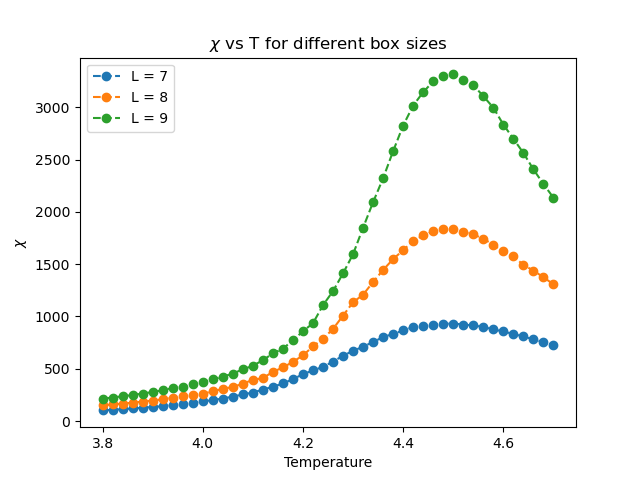
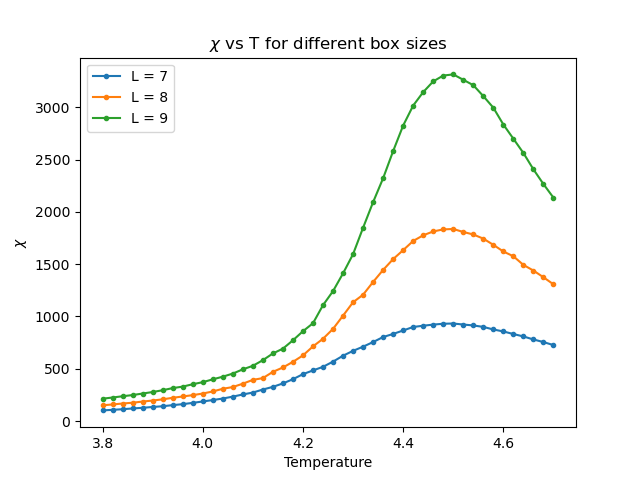
make figures neater

diff --git a/module_3/auxscripts/Q7.py b/module_3/auxscripts/Q7.py
@@ -52,38 +52,45 @@ print(cv9.max())
 
 print()
 print(Exp7_M[0])
-# plt.plot(T, chi7, '--o', label="L = 7")
-# plt.plot(T, chi8, '--o', label="L = 8")
-# plt.plot(T, chi9, '--o', label="L = 9")
-# plt.plot(T, cv7, '--o', label="L = 7")
-# plt.plot(T, cv8, '--o', label="L = 8")
-# plt.plot(T, cv9, '--o', label="L = 9")
-# plt.xlabel("Temperature")
-# plt.ylabel("$\chi$")
-# plt.ylabel("$C_v$")
-# plt.legend()
-# plt.title("$\chi$ vs T for different box sizes")
-# plt.title("$C_v$ vs T for different box sizes")
-# plt.savefig("figures/Q7_chi_T.png")
-# plt.clf()
 
-# plt.plot(T, Exp7_M,'--o', label="L = 7")
-# plt.plot(T, Exp8_M,'--o', label="L = 8")
-# plt.plot(T, Exp9_M,'--o', label="L = 9")
-# plt.plot(T, Exp7_modM,'--o', label="L = 7")
-# plt.plot(T, Exp8_modM,'--o', label="L = 8")
-# plt.plot(T, Exp9_modM,'--o', label="L = 9")
-# plt.xlabel("Temperature")
-# plt.ylabel("M/N")
-# plt.legend()
-# plt.title("Magnetization per Spin vs T")
-# plt.savefig("figures/Q7-M.png")
+plt.plot(T, chi7, '.-', label="L = 7")
+plt.plot(T, chi8, '.-', label="L = 8")
+plt.plot(T, chi9, '.-', label="L = 9")
+plt.xlabel("Temperature")
+plt.ylabel("$\chi$")
+plt.legend()
+plt.title("$\chi$ vs T for different box sizes")
+plt.savefig("figures/Q7_chi_T.png")
+plt.clf()
 
-# plt.plot(T, Exp7_E,'--o', label="L = 7")
-# plt.plot(T, Exp8_E,'--o', label="L = 8")
-# plt.plot(T, Exp9_E,'--o', label="L = 9")
-# plt.xlabel("Temperature")
-# plt.ylabel("E/N")
-# plt.legend()
-# plt.title("Energy per Spin vs T")
-# plt.savefig("figures/Q7-E.png")
+plt.plot(T, cv7, '.-', label="L = 7")
+plt.plot(T, cv8, '.-', label="L = 8")
+plt.plot(T, cv9, '.-', label="L = 9")
+plt.xlabel("Temperature")
+plt.ylabel("$C_v$")
+plt.legend()
+plt.title("$C_v$ vs T for different box sizes")
+plt.savefig("figures/Q7_cv_T.png")
+plt.clf()
+
+plt.plot(T, Exp7_M,'.--', label="(Mag) L = 7")
+plt.plot(T, Exp8_M,'.--', label="(Mag) L = 8")
+plt.plot(T, Exp9_M,'.--', label="(Mag) L = 9")
+plt.plot(T, Exp7_modM,'.--', label="(abs Mag) L = 7")
+plt.plot(T, Exp8_modM,'.--', label="(abs Mag) L = 8")
+plt.plot(T, Exp9_modM,'.--', label="(abs Mag) L = 9")
+plt.xlabel("Temperature")
+plt.ylabel("M/N")
+plt.legend()
+plt.title("Magnetization per Spin vs T")
+plt.savefig("figures/Q7-M.png")
+plt.clf()
+
+plt.plot(T, Exp7_E,'.-', label="L = 7")
+plt.plot(T, Exp8_E,'.-', label="L = 8")
+plt.plot(T, Exp9_E,'.-', label="L = 9")
+plt.xlabel("Temperature")
+plt.ylabel("E/N")
+plt.legend()
+plt.title("Energy per Spin vs T")
+plt.savefig("figures/Q7-E.png")
